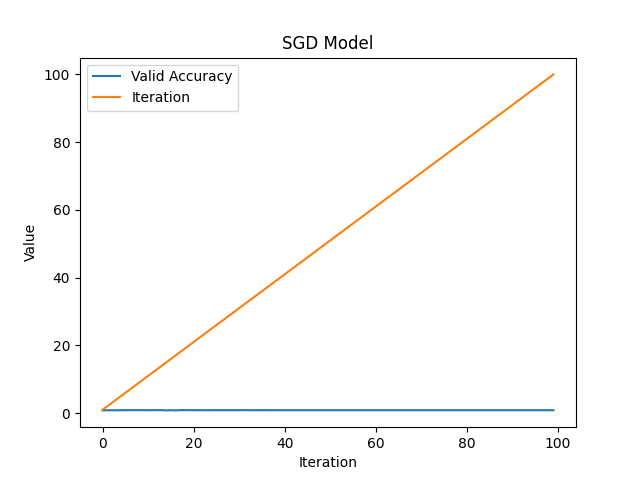
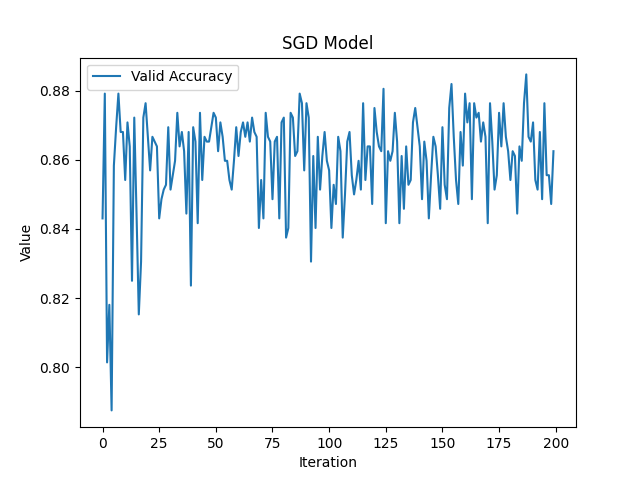
new SGD

diff --git a/phobert/sentimentModel.py b/phobert/sentimentModel.py
@@ -125,7 +125,7 @@ def startLearning():
         val_labels,
     )
 
-    # sgd_model.trainModel()
+    sgd_model.trainModel()
     sgd_model.testModel(
         [np.array(title_test_ids), np.array(text_test_ids)], 
         np.array(test_labels)

diff --git a/phobert/models/SGD.py b/phobert/models/SGD.py
@@ -41,7 +41,7 @@ class SGD():
             'iteration': []
         }
         
-        iterations = 100
+        iterations = 200
         max_acc = 0
         model = SGDClassifier(loss='hinge')
         labels = np.unique(self.train_rating)
